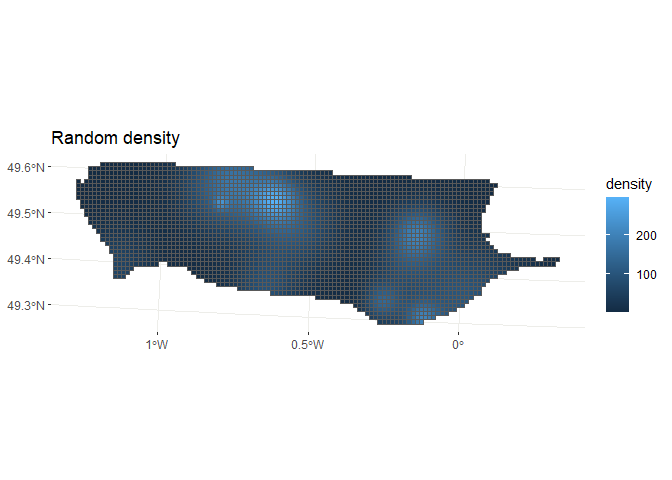
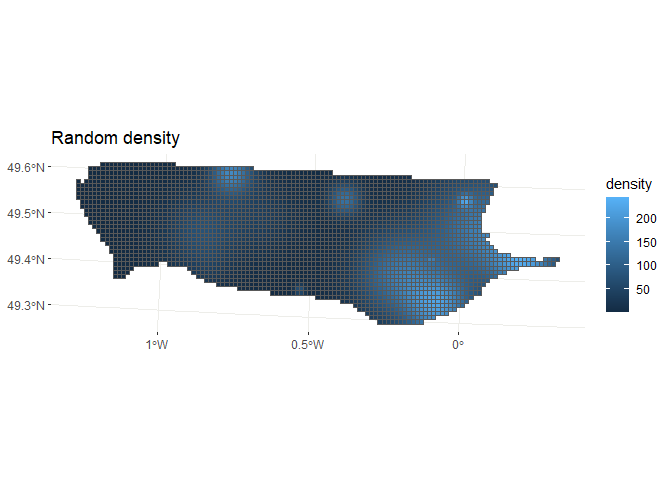
- amelioration readme, - modif function simulate_density : calcul du gradient

diff --git a/README.md b/README.md
@@ -1,7 +1,7 @@
 
 <!-- README.md is generated from README.Rmd. Please edit that file -->
 
-# Simulated Survey Of Megafauna At Offshore Windfarms
+# Simulated Survey Of Megafauna At Offshore Windfarms :airplane::dolphin:
 
 <!-- badges: start -->
 
@@ -13,7 +13,7 @@ digital monitoring while ensuring their comparability with
 observer-based visual monitoring.
 
 The goal of `sismow` is to simulate different **datasets of aerial
-monitoring**. To do this, sismow allows to simulate :
+monitoring**. To do this, `sismow` allows to simulate :
 
 1.  different density map
 2.  different sampling transect
@@ -28,6 +28,8 @@ to calculate the intercalibration parameters between the two methods.
 
 ## Installation
 
+-----
+
 You can install the development version of `sismow` from
 [GitHub](https://github.com/) with:
 
@@ -37,7 +39,7 @@ You can install the development version of `sismow` from
 library(sismow)
 ```
 
-## Population Abondance Emulator
+## \#\# Population Abondance Emulator
 
 ### Simulate density
 
@@ -153,7 +155,7 @@ transects <- simulate_transects(shape_obj = shape_courseulles,
 <!-- end list -->
 
 ``` r
-transects <- simulate_transects(shape_obj = map,
+transects <- simulate_transects(shape_obj = shape_courseulles,
                              design = "eszigzag",
                              line.length = 600000,
                              design.angle = 90,
